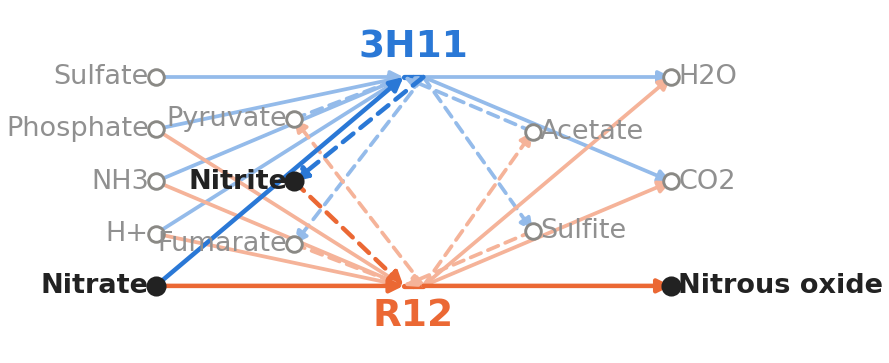
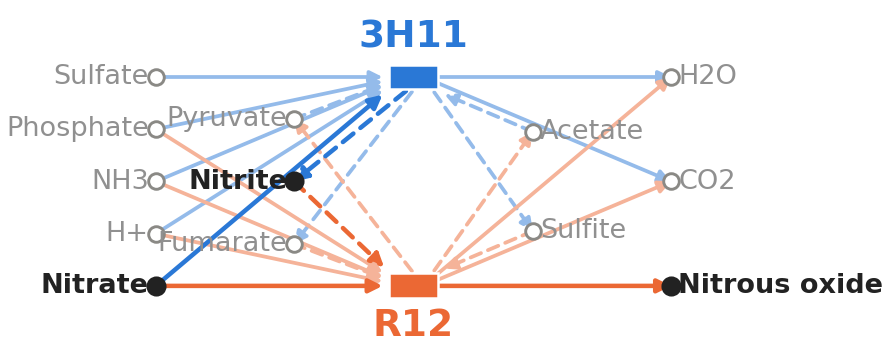
Draw each member as an organism box node on the rendered map
Port escher-edit's organism marker (svg_editor.mark_asv_rectangles), which
the matplotlib renderer never picked up, so a member reads as a node rather
than as a bare convergence of edges. The package's 40x15 px is tuned to the
ABX viewBox and would set at ~6x2pt here, so the box is sized to this map's
units instead, spanning the +/-20 multimarkers its edges attach to; the
member label moves out by the box half-height to clear it.

Consumption arrowheads are trimmed back to the box edge geometrically --
a bisection for the crossing plus a de Casteljau split, so Beziers stay
exact curves. This is necessary because FancyArrowPatch ignores
shrinkA/shrinkB when handed an explicit path, honouring them only on the
posA/posB route: the heads have always landed on their node, and the box
would have buried every one of them.

Claude-Session: https://claude.ai/code/session_01FcXcHhaW45rvn1hNm957RW

Changed region(s): [[0.3948, 0.0303, 0.5467, 0.303], [0.3948, 0.697, 0.5163, 0.9394]]

diff --git a/Metabolic_modeling/render_escher_map.py b/Metabolic_modeling/render_escher_map.py
@@ -3,9 +3,10 @@
 Draws the community-interaction map (net organism reactions from
 make_escher_interactions.py, cleaned by clean_escher_maps.py) with
 matplotlib: member-colored reaction edges (3H11 blue, R12 orange -
-colorblind-safe categorical pair), neutral metabolite nodes, chemical-name
-labels in ink, arrowheads toward products and away from reactants, and no
-flux numbers. Vector output on a pure-white background, sized for a
+colorblind-safe categorical pair), a member-colored organism box node per
+member (escher-edit's svg_editor.mark_asv_rectangles), neutral metabolite
+nodes, chemical-name labels in ink, arrowheads toward products and away from
+reactants, and no flux numbers. Vector output on a pure-white background, sized for a
 single-column figure.
 
 Run:  ~/Documents/py_venv/bin/python render_escher_map.py \
@@ -17,7 +18,7 @@ import sys
 import matplotlib
 matplotlib.use('Agg')
 import matplotlib.pyplot as plt
-from matplotlib.patches import FancyArrowPatch
+from matplotlib.patches import FancyArrowPatch, Rectangle
 from matplotlib.path import Path
 
 from escher_edit.build_map import cross_feeding_segments
@@ -31,6 +32,13 @@ INK, MUTED = '#222222', '#8a8985'
 FIG_W = 3.35          # inches, single column
 FONT_MET, FONT_MEMBER = 6.5, 9.0
 LW = 0.9
+# escher-edit's organism box node (svg_editor.mark_asv_rectangles): a filled
+# rectangle over each member's marker backbone, so the member reads as a node
+# rather than as a bare convergence of edges. The package's 40x15 px is tuned
+# to the ABX viewBox; sized here to this map's units, spanning the +/-20
+# multimarkers that the edges attach to.
+BOX_W, BOX_H = 100.0, 50.0
+BOX_GAP = 12.0        # map units held clear around the box for arrowheads
 
 # escher-edit highlight styling (svg_editor.apply_color_highlights):
 # the nitrogen-transformation species keep full member color with filled
@@ -61,21 +69,76 @@ fig, ax = plt.subplots(figsize=(FIG_W, fig_h))
 fig.patch.set_facecolor('white')
 ax.set_facecolor('white')
 
-def seg_path(a, b, b1, b2, reverse=False):
+def seg_points(a, b, b1, b2, reverse=False):
+    """Control points of one segment: a cubic Bezier when Escher stored
+    handles, otherwise a straight line. Reversing the list traverses the same
+    curve backwards, which is how an arrowhead is aimed at the other end."""
     pts = [(a['x'], a['y'])]
-    codes = [Path.MOVETO]
     if b1 and b2:
-        pts += [(b1['x'], b1['y']), (b2['x'], b2['y']), (b['x'], b['y'])]
-        codes += [Path.CURVE4] * 3
-    else:
-        pts.append((b['x'], b['y']))
-        codes.append(Path.LINETO)
-    if reverse:
-        pts = pts[::-1]
+        pts += [(b1['x'], b1['y']), (b2['x'], b2['y'])]
+    pts.append((b['x'], b['y']))
+    return pts[::-1] if reverse else pts
+
+
+def make_path(pts):
+    codes = [Path.MOVETO] + ([Path.CURVE4] * 3 if len(pts) == 4 else [Path.LINETO])
     return Path(pts, codes)
 
-for r in body['reactions'].values():
+
+def point_at(pts, t):
+    if len(pts) == 2:
+        (ax, ay), (bx, by) = pts
+        return ax + (bx - ax) * t, ay + (by - ay) * t
+    (p0, p1, p2, p3), u = pts, 1 - t
+    return (u ** 3 * p0[0] + 3 * u * u * t * p1[0] + 3 * u * t * t * p2[0] + t ** 3 * p3[0],
+            u ** 3 * p0[1] + 3 * u * u * t * p1[1] + 3 * u * t * t * p2[1] + t ** 3 * p3[1])
+
+
+def head_at(pts, t):
+    """de Casteljau: the leading part of the segment, up to t."""
+    if len(pts) == 2:
+        return [pts[0], point_at(pts, t)]
+    p0, p1, p2, p3 = pts
+
+    def lerp(u, v):
+        return u[0] + (v[0] - u[0]) * t, u[1] + (v[1] - u[1]) * t
+    q0, q1, q2 = lerp(p0, p1), lerp(p1, p2), lerp(p2, p3)
+    r0, r1 = lerp(q0, q1), lerp(q1, q2)
+    return [p0, q0, r0, lerp(r0, r1)]
+
+
+def clip_to_box(pts, cy):
+    """Trim a segment that ends on a marker inside the member's box back to
+    the box edge, so the consumption arrowhead is not drawn underneath it.
+
+    FancyArrowPatch ignores shrinkA/shrinkB when handed an explicit ``path``
+    (it only honours them on the posA/posB route), so the trim has to happen
+    on the geometry rather than at draw time."""
+    hw, hh = BOX_W / 2 + BOX_GAP, BOX_H / 2 + BOX_GAP
+
+    def inside(p):
+        return abs(p[0]) <= hw and abs(p[1] - cy) <= hh
+
+    if inside(pts[0]) or not inside(pts[-1]):
+        return pts
+    lo, hi = 0.0, 1.0
+    for _ in range(40):                       # first crossing into the box
+        mid = (lo + hi) / 2
+        lo, hi = (lo, mid) if inside(point_at(pts, mid)) else (mid, hi)
+    return head_at(pts, hi)
+
+# midmarker y per reaction: the centre of that member's box node, and the
+# anchor its label is offset from
+mid_ys = {}
+for rid, r in body['reactions'].items():
+    for seg in r['segments'].values():
+        for key in ('from_node_id', 'to_node_id'):
+            if nodes[seg[key]]['node_type'] == 'midmarker':
+                mid_ys[rid] = nodes[seg[key]]['y']
+
+for rid, r in body['reactions'].items():
     color = MEMBER_COLOR.get(r['bigg_id'], INK)
+    cy = mid_ys.get(rid, 0.0)
     coef = {m['bigg_id']: m['coefficient'] for m in r['metabolites']}
     for seg_id, seg in r['segments'].items():
         a, b = nodes[seg['from_node_id']], nodes[seg['to_node_id']]
@@ -87,11 +150,13 @@ for r in body['reactions'].values():
         producing = coef.get(met['bigg_id'], 0) > 0
         highlighted = met['bigg_id'] in HIGHLIGHT
         seg_color = color if highlighted else '#' + tint_color(color, TINT_FACTOR)
-        # arrowhead into the metabolite for products, into the cluster for
-        # reactants; shrink at the metabolite end so heads sit off the node
+        # arrowhead into the metabolite for products, into the box node for
+        # reactants, whose tail is trimmed so the head clears the box
         reverse = (met is b) != producing
-        path = seg_path(a, b, seg.get('b1'), seg.get('b2'), reverse=reverse)
-        arrow = FancyArrowPatch(path=path, arrowstyle='-|>',
+        pts = seg_points(a, b, seg.get('b1'), seg.get('b2'), reverse=reverse)
+        if not producing:
+            pts = clip_to_box(pts, cy)
+        arrow = FancyArrowPatch(path=make_path(pts), arrowstyle='-|>',
                                 mutation_scale=6.5 if highlighted else 6,
                                 lw=LW * 1.2 if highlighted else LW,
                                 color=seg_color, shrinkA=0,
@@ -114,18 +179,18 @@ for n in nodes.values():
                     fontweight='bold' if highlighted else 'normal',
                     fontsize=FONT_MET, ha=ha, va='center', zorder=4)
 
-# member labels sit on the far side of each cluster from the map's centre,
-# so neither is overprinted by its own converging edges
-mid_ys = {}
 for rid, r in body['reactions'].items():
-    for seg in r['segments'].values():
-        for key in ('from_node_id', 'to_node_id'):
-            if nodes[seg[key]]['node_type'] == 'midmarker':
-                mid_ys[rid] = nodes[seg[key]]['y']
+    ax.add_patch(Rectangle((-BOX_W / 2, mid_ys.get(rid, 0.0) - BOX_H / 2),
+                           BOX_W, BOX_H,
+                           facecolor=MEMBER_COLOR.get(r['bigg_id'], INK),
+                           edgecolor='white', linewidth=0.6, zorder=3.2))
+
+# member labels sit on the far side of each box from the map's centre,
+# so neither is overprinted by its own converging edges
 centre_y = sum(mid_ys.values()) / len(mid_ys)
 for rid, r in body['reactions'].items():
     cy = mid_ys.get(rid, r.get('label_y', 0))
-    dy = -60 if cy <= centre_y else 60
+    dy = -(BOX_H / 2 + 55) if cy <= centre_y else BOX_H / 2 + 55
     ax.annotate(r['bigg_id'], (0, cy + dy),
                 color=MEMBER_COLOR.get(r['bigg_id'], INK),
                 fontsize=FONT_MEMBER, fontweight='bold',
